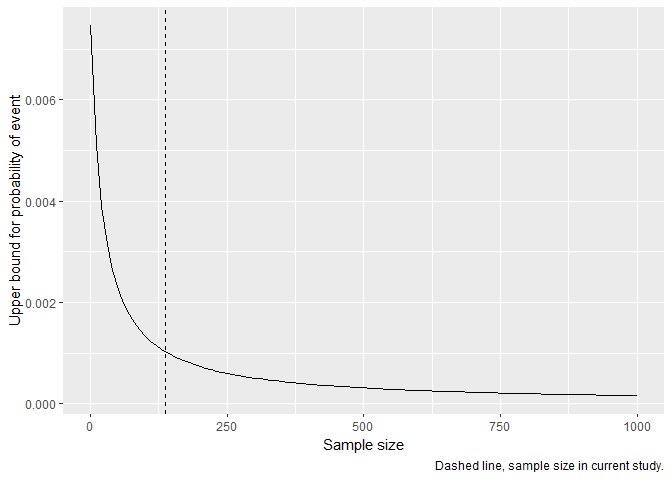
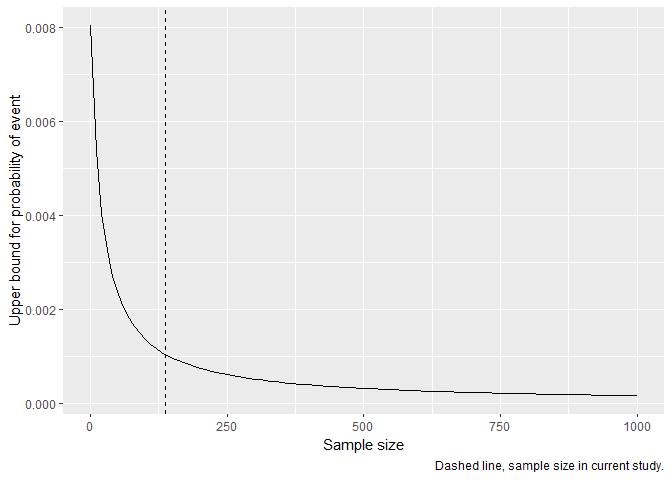
use seed

diff --git a/README.md b/README.md
@@ -1,7 +1,7 @@
 Prevalence of HTLVI/II infection in Estonian population: modeling zero events
 ================
 taavi74
-Thu Mar 07 11:23:18 2019
+Thu Mar 07 11:24:35 2019
 
 Load libraries.
 ---------------
@@ -93,6 +93,7 @@ Estimate parameters for prior from beta distribution.
 ``` r
 obs <- c(bd, sw, ivf, idu)
 values <- sample(obs, 1000, replace = TRUE)
+set.seed(11)
 m <- MASS::fitdistr(values, dbeta, start = list(shape1 = 1, shape2 = 10))
 ```
 
@@ -103,7 +104,7 @@ coef(m)
 ```
 
     ##     shape1     shape2 
-    ##  0.1621865 20.5839227
+    ##  0.1630283 19.1264090
 
 ``` r
 alpha0 <- m$estimate[1]
